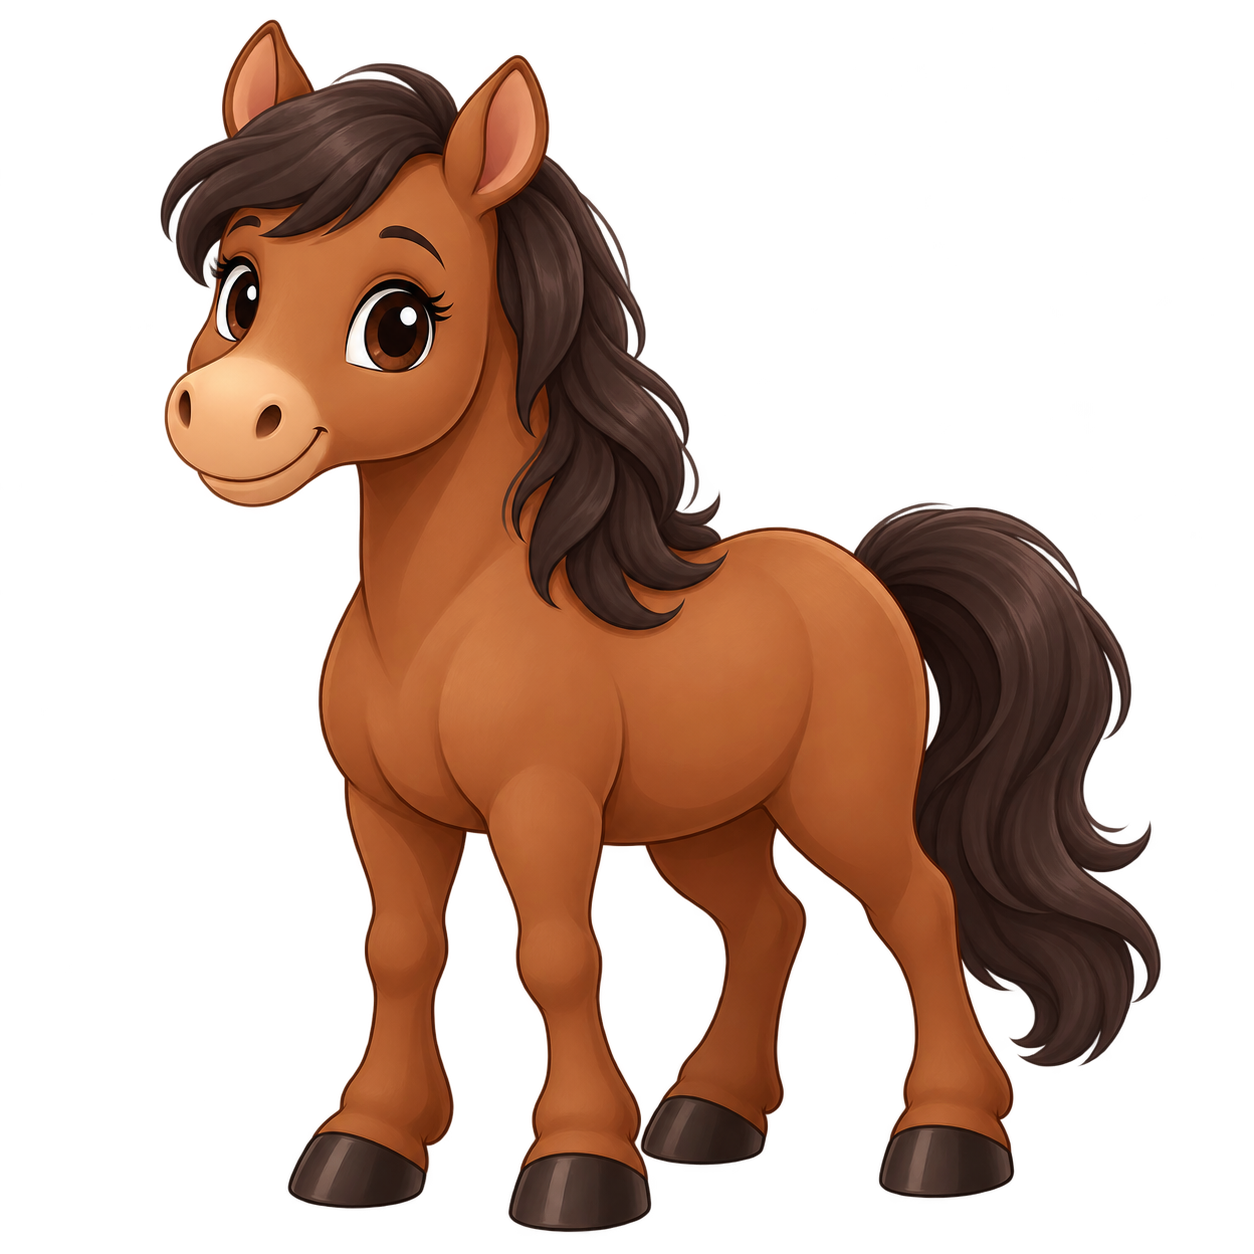
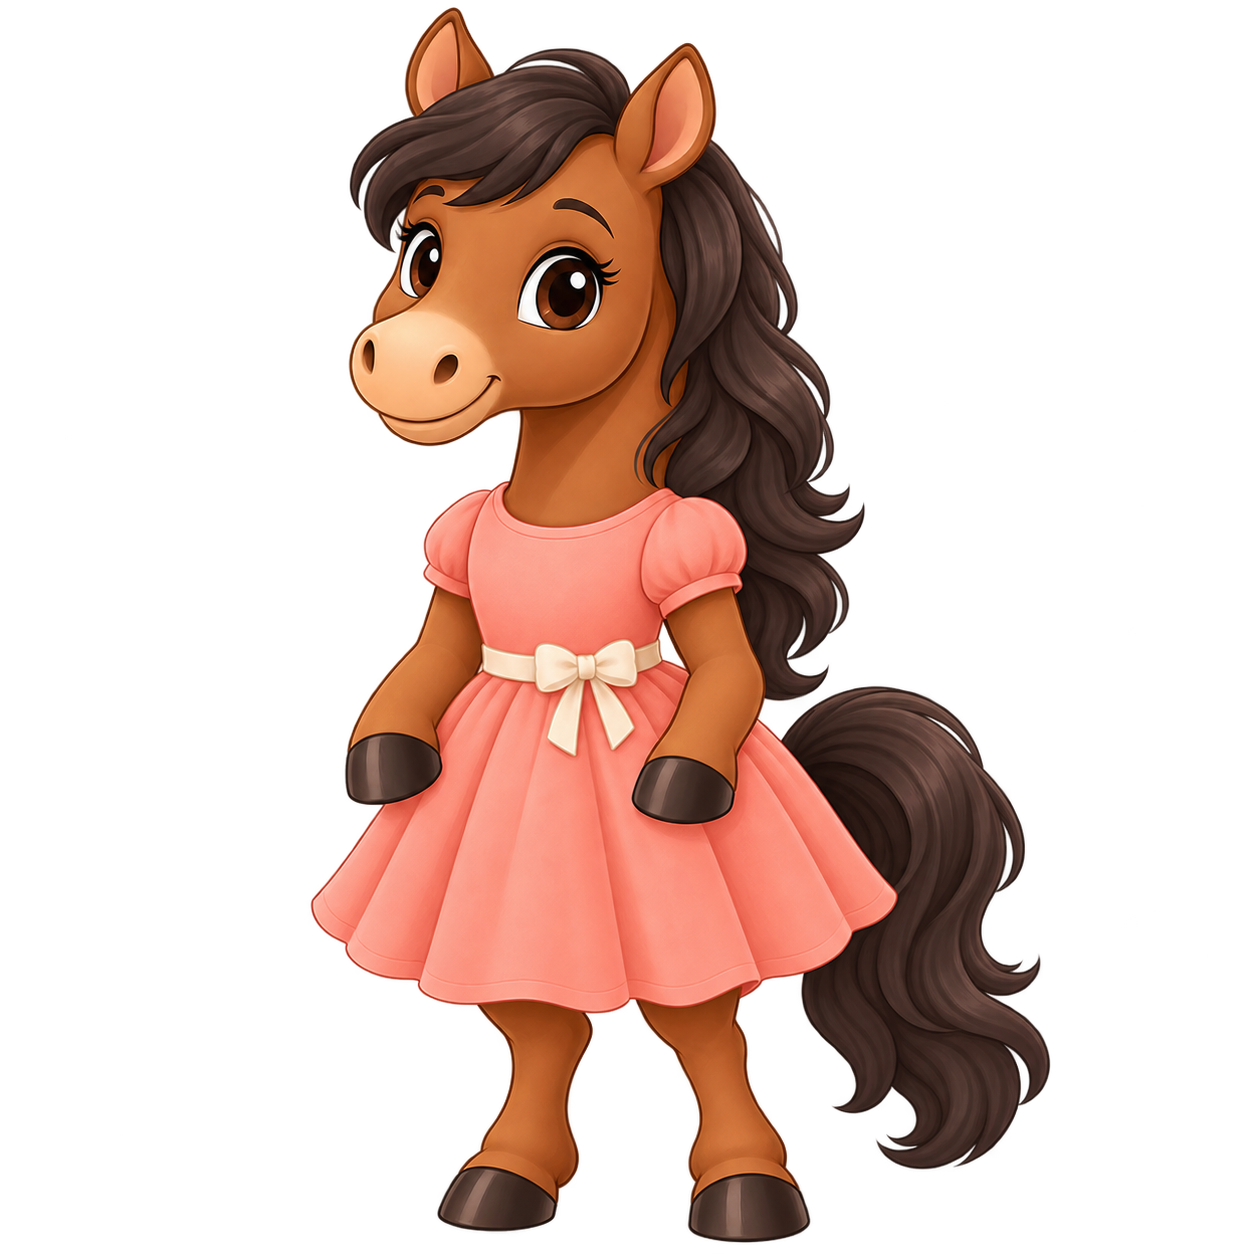
Restore fantasy background, polish toy machine and buttons, dress horse

diff --git a/styles.css b/styles.css
@@ -2,3 +2,22 @@
 @media(max-width:700px) and (orientation:portrait){header{padding:10px;gap:5px}.brand{font-size:14px}nav{gap:3px}.quiet{padding:10px}#restart span{display:none}#game{padding:6px 3% 15px}.game-top{margin-bottom:10px}h2{font-size:17px}.stars{font-size:24px;letter-spacing:2px}.machine{padding:16px 30px 15px 9px;border-radius:22px}.cards,.cards.four{grid-template-columns:repeat(2,minmax(0,1fr));gap:10px}.cards:not(.four) .card-slot:last-child{grid-column:1/-1;width:calc(50% - 5px);justify-self:center}.question{font-size:12px;margin-bottom:5px}.order{width:20px;height:20px;margin-right:4px}.question:after{content:' →'}.card-slot:last-child .question:after{content:''}.card-image{height:clamp(150px,23dvh,230px);border-width:4px;border-radius:16px}.hero-label{font-size:14px;height:27px;padding:3px 0}.lever{right:-2px;top:36%;width:44px;height:65px}.lever img{width:65px;height:65px;left:-10px}.lever:after{width:10px;height:10px;left:17px;bottom:3px}.game-bottom{padding-top:8px}#instruction{font-size:17px;margin:8px 0 12px}.controls{gap:7px}.primary{font-size:15px;padding:12px 14px;gap:8px}.primary span{font-size:19px}.sentence{font-size:18px}footer{font-size:10px;padding:8px}}
 @media(max-height:600px) and (orientation:landscape){header{padding:5px 2%}.brand{font-size:17px}.game-top{margin-bottom:6px}h2{font-size:16px}.stars{font-size:24px}.machine{padding:14px 55px 14px 10px;border-radius:20px}.cards{gap:10px}.question{font-size:12px;margin-bottom:4px}.order{width:18px;height:18px}.card-image{height:42dvh;border-width:4px;border-radius:14px}.hero-label{font-size:13px;height:26px;padding:2px}.lever{width:55px;height:100px;top:30%;right:0}.lever img{width:100px;height:100px;left:-23px}.lever:after{width:15px;height:15px;left:19px;bottom:3px}.game-bottom{padding-top:4px}#instruction{font-size:15px;margin:5px 0 8px}.primary{font-size:14px;padding:10px 13px}.quiet{font-size:12px;padding:8px 11px}.controls{gap:6px}footer{padding:5px;font-size:10px}}
 @media(prefers-reduced-motion:reduce){*,*:before,*:after{animation:none!important;scroll-behavior:auto!important}}
+/* Fantasy toy-machine finish, with the original illustrated room. */
+body{background:#faf8f2 url('assets/backgrounds/game-background.png') center/cover fixed}
+header{background:#fffdf3b8;border-bottom:1px solid #ffffffbd;backdrop-filter:blur(5px)}
+.machine{background:linear-gradient(135deg,#69e2d8 0%,#24bdb4 38%,#159b98 100%);border:4px solid #2bb4ac;box-shadow:inset 0 3px 0 #c7fff4,inset 0 -5px 0 #087d7b,0 7px 0 #117e7c,0 15px 24px #225b4b25;padding-top:28px;padding-bottom:30px;border-radius:34px}
+.machine:before{content:'';position:absolute;inset:15px 53px 16px 12px;border:4px solid #f3c968;border-radius:25px;background:linear-gradient(#fffdf3,#f6f3e9);box-shadow:0 2px 0 #bf8d35,inset 0 2px 0 white;pointer-events:none}
+.cards{position:relative;z-index:1}
+.machine-trim{z-index:2;left:27px;top:8px}.machine-trim span{background:#ffe290;box-shadow:0 1px 2px #78642270}
+.question{color:#37566b}.order{background:#f9e6b5;border:1px solid #e7c36d}
+.card-image{box-shadow:0 3px 0 #d8d3c3,inset 0 2px 0 white}
+.primary{border:2px solid #118b9b;border-radius:19px;background:linear-gradient(#54dfe5 0%,#23b8c8 50%,#159eb0 100%);box-shadow:inset 0 3px 0 #ffffff85,inset 0 -2px 0 #08798d,0 5px 0 #08768a,0 8px 10px #21535b25;text-shadow:0 1px 1px #13657985}
+.primary.gold{border-color:#dfa43a;background:linear-gradient(#ffe895,#ffd25b 55%,#f7b839);color:#62451c;box-shadow:inset 0 3px 0 #fff9d2,inset 0 -2px 0 #e6a329,0 5px 0 #bd8525,0 8px 10px #86612925;text-shadow:0 1px 0 #fff0b9}
+.quiet{border:2px solid #d9c8f0;border-radius:16px;background:linear-gradient(#fffcff,#f0e6fb);box-shadow:inset 0 2px 0 white,0 3px 0 #bba3d5;color:#5a4771}
+button:not(:disabled):active{box-shadow:inset 0 2px 3px #194f5120;transform:translateY(3px)}
+button:disabled{opacity:.5;filter:saturate(.6)}
+#instruction{display:table;margin:10px auto 16px;padding:6px 18px;border-radius:16px;background:#fffdf3d9}
+.game-top{background:#fffdf3bd;border-radius:20px;padding:9px 15px;margin-bottom:13px}
+.lever{filter:drop-shadow(0 2px 2px #4d714944)}
+@media(max-width:700px) and (orientation:portrait){.machine{padding:22px 30px 22px 9px;border-radius:25px;border-width:3px}.machine:before{inset:12px 24px 12px 5px;border-width:3px;border-radius:19px}.machine-trim{top:6px;left:17px}.game-top{padding:7px 9px;margin-bottom:9px}#instruction{padding:4px 10px;margin:7px auto 10px}.primary{border-radius:16px}.quiet{border-radius:13px}header{padding:8px}}
+@media(max-height:600px) and (orientation:landscape){.machine{padding-top:20px;padding-bottom:20px;border-radius:24px;border-width:3px}.machine:before{inset:11px 48px 10px 6px;border-width:3px;border-radius:17px}.machine-trim{top:6px}.game-top{padding:3px 10px;margin-bottom:5px}#instruction{padding:3px 10px;margin:4px auto 8px}}

diff --git a/data.js b/data.js
@@ -1,15 +1,15 @@
 'use strict';
 window.GAME_DATA = (() => {
- const hero = (id, word, gender, alt) => ({id,word,gender,image:`assets/heroes/hero-${id}.png`,alt});
+ const hero = (id, word, gender, alt) => ({id,word,gender,image:`assets/heroes/hero-${id}.png${id==='horse'?'?v=dress-20261011':''}`,alt});
  const action = (id,word,alt) => ({id,word,image:`assets/actions/action-${id}.png`,alt});
  const object = (id,nominative,accusative,alt) => ({id,nominative,accusative,image:`assets/objects/object-${id}.png`,alt});
  const mood = (id,masculine,feminine,alt) => ({id,masculine,feminine,image:`assets/moods/mood-${id}.png`,alt});
  return {
- heroes:[hero('pavel','Павел','masculine','Павел в голубой футболке'),hero('mila','Мила','feminine','Мила с двумя хвостиками в коралловом платье'),hero('wolf','волк','masculine','Добрый серый волк в бирюзовом комбинезоне'),hero('elephant','слон','masculine','Серый слон в жёлтой футболке'),hero('horse','лошадь','feminine','Добрая коричневая лошадь')],
+ heroes:[hero('pavel','Павел','masculine','Павел в голубой футболке'),hero('mila','Мила','feminine','Мила с двумя хвостиками в коралловом платье'),hero('wolf','волк','masculine','Добрый серый волк в бирюзовом комбинезоне'),hero('elephant','слон','masculine','Серый слон в жёлтой футболке'),hero('horse','лошадь','feminine','Добрая коричневая лошадь в коралловом платье')],
  actions:[action('stroke','гладит','Ладонь гладит спинку белки'),action('break','ломает','Две руки разламывают плитку'),action('catch','ловит','Раскрытые ладони ловят колобка'),action('push','толкает','Фигура упирается руками в лодку и толкает её'),action('put-to-bed','укладывает','Рука укладывает куклу в кроватку')],
  objects:[object('squirrel','белка','белку','Рыжая белка с пушистым хвостом'),object('chocolate','шоколад','шоколад','Плитка шоколада без упаковки'),object('kolobok','колобок','колобка','Золотистый сказочный колобок'),object('boat','лодка','лодку','Деревянная лодка'),object('doll','кукла','куклу','Кукла в сиреневом платье с игрушечными суставами')],
  moods:[mood('brave','смелый','смелая','Щит со звездой — смелый'),mood('happy','весёлый','весёлая','Весёлое жёлтое личико'),mood('agile','ловкий','ловкая','Жонглирующие мячики — ловкий'),mood('affectionate','ласковый','ласковая','Ладони с сердцем — ласковый'),mood('nice','славный','славная','Доброе солнышко — славный')],
  pairs:[{id:'stroke_squirrel',actionId:'stroke',objectId:'squirrel'},{id:'break_chocolate',actionId:'break',objectId:'chocolate'},{id:'catch_kolobok',actionId:'catch',objectId:'kolobok'},{id:'push_boat',actionId:'push',objectId:'boat'},{id:'put_doll_to_bed',actionId:'put-to-bed',objectId:'doll'}],
- backgrounds:[],
+ backgrounds:['assets/backgrounds/game-background.png'],
  interface:['assets/interface/machine-lever.png']};
 })();

diff --git a/index.html b/index.html
@@ -1,5 +1,5 @@
 <!doctype html>
-<html lang="ru"><head><meta charset="utf-8"><meta name="viewport" content="width=device-width,initial-scale=1,viewport-fit=cover"><meta name="theme-color" content="#65bdb8"><title>Крути и говори! — предложения по картинкам</title><link rel="stylesheet" href="styles.css"><script defer src="data.js"></script><script defer src="game.js"></script></head>
+<html lang="ru"><head><meta charset="utf-8"><meta name="viewport" content="width=device-width,initial-scale=1,viewport-fit=cover"><meta name="theme-color" content="#65bdb8"><title>Крути и говори! — предложения по картинкам</title><link rel="stylesheet" href="styles.css?v=toy-dress-20261011"><script defer src="data.js?v=toy-dress-20261011"></script><script defer src="game.js?v=toy-dress-20261011"></script></head>
 <body><div class="app"><header><button id="restart" class="quiet">↻ <span>Начать заново</span></button><div class="brand">Крути и говори<span class="brand-dot">!</span></div><nav aria-label="Настройки"><button id="sound" class="quiet" aria-pressed="true">Звук: вкл.</button><button id="fullscreen" class="quiet" hidden>⛶</button><button id="settings" class="quiet" aria-label="Настройки взрослого">⚙</button></nav></header>
 <main><section id="game"><div class="game-top"><div><span class="eyebrow" id="level-label"></span><h2 id="round-label"></h2></div><div id="stars" class="stars" aria-label="Прогресс"></div></div><div class="machine"><div class="machine-trim" aria-hidden="true"><span></span><span></span><span></span></div><div id="cards" class="cards"></div><button id="lever" class="lever" aria-label="Потянуть рычаг и крутить"><img id="lever-image" src="assets/interface/machine-lever.png" alt=""></button></div><p id="loading" role="status">Загружаем картинки…</p><div class="game-bottom"><p id="instruction" role="status" aria-live="polite"></p><div class="controls"><button id="spin" class="primary">Крутить! <span>↻</span></button><button id="confirm" class="primary gold" disabled>Предложение готово! <span>✓</span></button><button id="heroes" class="quiet">Герои</button><button id="rules" class="quiet">Как играть</button><button id="hint" class="quiet" disabled>Подсказка</button><button id="example" class="quiet" hidden>Показать пример</button></div><p id="sentence" class="sentence" hidden></p><p id="scheme" class="scheme" hidden></p></div></section>
 <section id="complete" class="complete" hidden><div class="finish-stars" aria-hidden="true">★ ★ ★</div><h1 id="complete-title"></h1><p id="complete-message"></p><div id="complete-actions"></div></section></main><footer>Маленькое предложение — большая история</footer></div>

diff --git a/README.md b/README.md
@@ -16,13 +16,13 @@ python3 -m http.server 8000 --bind 127.0.0.1
 
 Игра сразу показывает рабочий экран первого уровня без обложки и кнопки «Играть». До первого вращения в окнах нейтральные знаки категорий. После предзагрузки полного набора становится доступна кнопка «Крутить!». «Герои» и «Как играть» открывают необязательные окна, не сбрасывая раунд. «Начать заново» после подтверждения сбрасывает всю сессию на первый уровень.
 
-Аппарат нарисован средствами HTML/CSS: тонкий пастельный бирюзовый корпус, большие карточки, компактный рычаг. Растровая рамка не используется. Действия всегда подписаны под картинками в обоих уровнях; подписи не перекрывают иллюстрации. Рычаг опускается за 200 мс, задерживается и возвращается; запуск через основную кнопку вызывает такое же движение. Перезапуск отменяет таймеры и анимации.
+Аппарат нарисован средствами HTML/CSS: тонкий пастельный бирюзовый корпус, большие карточки, компактный рычаг. Объёмный бирюзовый корпус с золотой окантовкой создаётся CSS, на фоне — пользовательская комната с облаками. Игровые кнопки имеют яркую объёмную отделку. Действия всегда подписаны под картинками в обоих уровнях; подписи не перекрывают иллюстрации. Рычаг опускается за 200 мс, задерживается и возвращается; запуск через основную кнопку вызывает такое же движение. Перезапуск отменяет таймеры и анимации.
 
 На втором уровне используются качества «смелый», «весёлый», «ловкий», «ласковый», «славный» и их женские формы. Пять символов: щит, улыбающееся личико, жонглирующие мячики, сердце в ладонях и доброе солнышко. Подпись согласуется с выпавшим героем. Качества не всегда однозначно читаются по рисунку, поэтому взрослый знакомит ребёнка со значением слова.
 
 ## Статус материалов
 
-Герои, действия и предметы предоставлены пользователем и сохранены без изменения. «Весёлый» использует пользовательское улыбающееся личико; четыре новых карточки качеств созданы image_gen. Старые картинки настроений, фон и рамка сохранены в репозитории как исходные материалы, но не используются в игре. Активных ресурсов: 20 карточек и отдельный рычаг.
+Действия, предметы и четыре героя предоставлены пользователем и сохранены без изменения. Лошадь отредактирована image_gen: стоит на задних ногах и одета в коралловое платье. «Весёлый» использует пользовательское улыбающееся личико; четыре новых карточки качеств созданы image_gen. Старые картинки настроений и рамка сохранены как исходные материалы. Активных ресурсов: 20 карточек, игровой фон и отдельный рычаг.
 
 При недоступном файле запуск заблокирован, а настройки взрослого показывают конкретный путь. Добавьте PNG под указанными именами и обновите страницу; код менять не потребуется. Не заменяйте эти ресурсы emoji.
 

diff --git a/ASSETS.md b/ASSETS.md
@@ -39,3 +39,5 @@
 Аппарат теперь создан HTML/CSS, поэтому `machine-frame.png` и игровой фон не используются. Старые `mood-sad`, `mood-surprised`, `mood-angry`, `mood-sleepy` сохранены как исходные материалы и исключены из словаря игры.
 
 Новые изображения созданы image_gen: `mood-brave.png` (щит), `mood-agile.png` (мячики), `mood-affectionate.png` (сердце в ладонях), `mood-nice.png` (солнышко). `mood-happy.png` сохранён пользовательский. Все подписи создаёт HTML и согласует с родом героя.
+
+Последнее обновление: пользовательский фон с облаками снова используется. Лошадь отредактирована image_gen по пользовательскому исходнику и референсу слоника: стоит на двух ногах, в коралловом платье. Аппарат и объёмные игровые кнопки создаются HTML/CSS.
